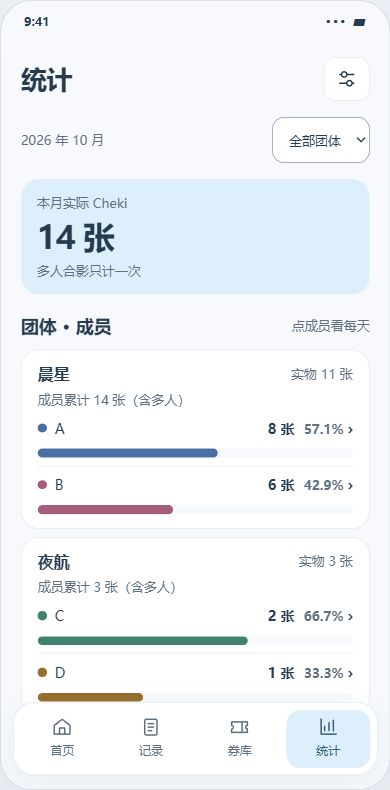
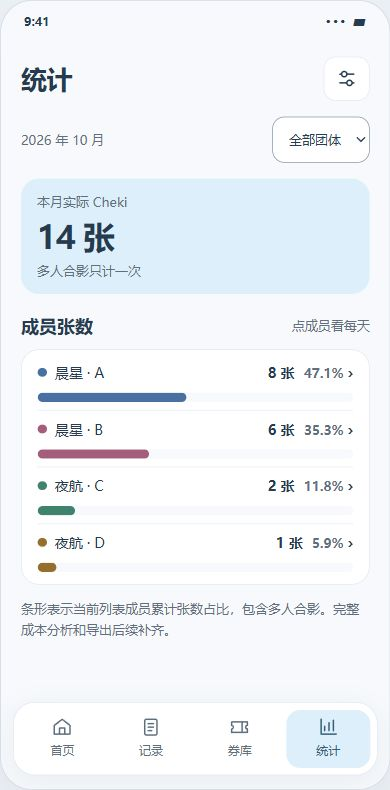
按成员平铺展示统计并以团体前缀标识归属

diff --git a/docs/ui/cheki-ui-prototype.js b/docs/ui/cheki-ui-prototype.js
@@ -28,9 +28,10 @@ function filter(value){recordFilter=value;const matched=monthRecords().filter(r=
 function navigate(name){document.querySelectorAll('.page').forEach(p=>p.hidden=p.id!==name+'-page');document.querySelectorAll('[data-page]').forEach(b=>b.dataset.page===name?b.setAttribute('aria-current','page'):b.removeAttribute('aria-current'));if(name==='stats')renderStats();$('scroller').scrollTop=0}
 function open(title,html){$('dialog-title').textContent=title;$('dialog-body').innerHTML=html;if(!$('dialog').open)$('dialog').showModal();$('dialog-body').scrollTop=0}
 let toastTimer;function toast(message){$('toast').textContent=message;$('toast').hidden=false;clearTimeout(toastTimer);toastTimer=setTimeout(()=>$('toast').hidden=true,3500)}
-function renderGroups(){const selected=$('stats-group').value;const visible=groups.filter(g=>selected==='all'||g.id===selected);const rows=monthRecords().filter(r=>r.members.some(id=>visible.some(g=>g.id===member(id).group)));$('stats-physical').textContent=sum(rows)+' 张';$('stats-groups').innerHTML=visible.map(g=>{let gm=members.filter(m=>m.group===g.id);let groupRows=rows.filter(r=>r.members.some(id=>member(id).group===g.id));let total=gm.reduce((n,m)=>n+sum(memberRecords(m.id)),0);return `<article class="card group-card" data-group-id="${g.id}"><div class="group-heading"><h3>${g.name}</h3><span class="muted">实物 ${sum(groupRows)} 张</span></div><p class="group-caption">成员累计 ${total} 张（含多人）</p>`+gm.map(m=>{let qty=sum(memberRecords(m.id));let percent=total?qty/total*100:0;return `<button class="member-row" data-member="${m.id}" aria-label="查看${g.name}成员${m.name}每日张数"><div class="member-heading"><span><i style="background:${m.color}"></i>${m.name}</span><b>${qty} 张 <small>${total?percent.toFixed(1)+'%':'—'}</small> ›</b></div><div class="track"><div class="fill member-fill" style="background:${m.color};width:${percent}%"></div></div></button>`}).join('')+'</article>'}).join('')}
-function renderStats(){const detail=statsView.member!==null;$('stats-overview').hidden=detail;$('stats-detail').hidden=!detail;if(!detail){renderGroups();return}const m=member(statsView.member);const rows=memberRecords(m.id);if(statsView.date){renderDay(m,rows.filter(r=>r.date===statsView.date));return}const dates=[...new Set(rows.map(r=>r.date))].sort().reverse();let days=dates.map(date=>({date,qty:sum(rows.filter(r=>r.date===date))}));let maximum=Math.max(1,...days.map(d=>d.qty));let offset=(new Date(2026,9,1).getDay()+6)%7;let calendar='<span class="calendar-spacer" aria-hidden="true"></span>'.repeat(offset);for(let day=1;day<=31;day++){let date=month+'-'+String(day).padStart(2,'0');let quantity=sum(rows.filter(r=>r.date===date));calendar+=`<button class="calendar-day ${quantity?'has-record':''}" data-date="${date}" aria-label="10月${day}日，${quantity}张" style="--member-color:${m.color}"><span>${day}</span><b>${quantity?quantity+'张':'·'}</b></button>`}
-$('stats-detail').innerHTML=`<header class="header detail-header"><button class="icon" data-stats-back="groups" aria-label="返回团体成员">‹</button><div><h1>${m.name} 的统计</h1><small>${group(m.group).name} · ${m.name}</small></div><button class="icon" data-action="member-settings" aria-label="成员颜色设置"><svg><use href="#settings"/></svg></button></header><div class="card member-total" style="border-left:4px solid ${m.color}"><small>2026 年 10 月 · ${m.name} 参与的 Cheki</small><strong class="number">${sum(rows)} 张</strong><small>单人 ${sum(rows.filter(r=>r.members.length===1))} · 多人 ${sum(rows.filter(r=>r.members.length>1))}</small></div><div class="section"><h2>每日张数</h2><small>点击日期看记录</small></div><label class="field narrow-date-picker"><span>选择日期查看当天张数</span><input id="member-date-input" type="date" min="2026-10-01" max="2026-10-31" value="2026-10-11"></label><div class="card calendar-card"><div class="calendar weekdays">${['一','二','三','四','五','六','日'].map(x=>'<span>'+x+'</span>').join('')}</div><div class="calendar">${calendar}</div></div><div class="section"><h2>有记录的日期</h2><small>${dates.length} 天</small></div><div class="card day-list">${days.map(d=>`<button class="daily-row" data-date="${d.date}"><div class="member-heading"><span>${d.date.slice(5).replace('-',' / ')}</span><b>${d.qty} 张 ›</b></div><div class="track"><div class="fill daily-fill" style="background:${m.color};width:${d.qty/maximum*100}%"></div></div></button>`).join('')||'<p class="info">本月暂无记录。</p>'}</div><p class="info">多人合影在该成员下每张计一次；空日期可点击查看，未记数量不补造。</p>`}
+function renderMembers(){const selected=$('stats-group').value;const visible=members.filter(m=>selected==='all'||m.group===selected);const rows=monthRecords().filter(r=>r.members.some(id=>visible.some(m=>m.id===id)));const total=visible.reduce((n,m)=>n+sum(memberRecords(m.id)),0);$('stats-physical').textContent=sum(rows)+' 张';$('stats-members').innerHTML='<div class="card member-list">'+visible.map(m=>{let qty=sum(memberRecords(m.id));let percent=total?qty/total*100:0;return `<button class="member-row" data-member="${m.id}" aria-label="查看${group(m.group).name}成员${m.name}每日张数"><div class="member-heading"><span><i style="background:${m.color}"></i><span class="member-name">${group(m.group).name} · ${m.name}</span></span><b>${qty} 张 <small>${total?percent.toFixed(1)+'%':'—'}</small> ›</b></div><div class="track"><div class="fill member-fill" style="background:${m.color};width:${percent}%"></div></div></button>`}).join('')+'</div>';}
+
+function renderStats(){const detail=statsView.member!==null;$('stats-overview').hidden=detail;$('stats-detail').hidden=!detail;if(!detail){renderMembers();return}const m=member(statsView.member);const rows=memberRecords(m.id);if(statsView.date){renderDay(m,rows.filter(r=>r.date===statsView.date));return}const dates=[...new Set(rows.map(r=>r.date))].sort().reverse();let days=dates.map(date=>({date,qty:sum(rows.filter(r=>r.date===date))}));let maximum=Math.max(1,...days.map(d=>d.qty));let offset=(new Date(2026,9,1).getDay()+6)%7;let calendar='<span class="calendar-spacer" aria-hidden="true"></span>'.repeat(offset);for(let day=1;day<=31;day++){let date=month+'-'+String(day).padStart(2,'0');let quantity=sum(rows.filter(r=>r.date===date));calendar+=`<button class="calendar-day ${quantity?'has-record':''}" data-date="${date}" aria-label="10月${day}日，${quantity}张" style="--member-color:${m.color}"><span>${day}</span><b>${quantity?quantity+'张':'·'}</b></button>`}
+$('stats-detail').innerHTML=`<header class="header detail-header"><button class="icon" data-stats-back="list" aria-label="返回成员列表">‹</button><div><h1>${m.name} 的统计</h1><small>${group(m.group).name} · ${m.name}</small></div><button class="icon" data-action="member-settings" aria-label="成员颜色设置"><svg><use href="#settings"/></svg></button></header><div class="card member-total" style="border-left:4px solid ${m.color}"><small>2026 年 10 月 · ${m.name} 参与的 Cheki</small><strong class="number">${sum(rows)} 张</strong><small>单人 ${sum(rows.filter(r=>r.members.length===1))} · 多人 ${sum(rows.filter(r=>r.members.length>1))}</small></div><div class="section"><h2>每日张数</h2><small>点击日期看记录</small></div><label class="field narrow-date-picker"><span>选择日期查看当天张数</span><input id="member-date-input" type="date" min="2026-10-01" max="2026-10-31" value="2026-10-11"></label><div class="card calendar-card"><div class="calendar weekdays">${['一','二','三','四','五','六','日'].map(x=>'<span>'+x+'</span>').join('')}</div><div class="calendar">${calendar}</div></div><div class="section"><h2>有记录的日期</h2><small>${dates.length} 天</small></div><div class="card day-list">${days.map(d=>`<button class="daily-row" data-date="${d.date}"><div class="member-heading"><span>${d.date.slice(5).replace('-',' / ')}</span><b>${d.qty} 张 ›</b></div><div class="track"><div class="fill daily-fill" style="background:${m.color};width:${d.qty/maximum*100}%"></div></div></button>`).join('')||'<p class="info">本月暂无记录。</p>'}</div><p class="info">多人合影在该成员下每张计一次；空日期可点击查看，未记数量不补造。</p>`}
 function renderDay(m,rows){let three=sum(rows.filter(r=>r.size==='三寸')),five=sum(rows.filter(r=>r.size==='五寸'));$('stats-detail').innerHTML=`<header class="header detail-header"><button class="icon" data-stats-back="member" aria-label="返回成员月统计">‹</button><div><h1>${statsView.date.slice(5).replace('-',' 月 ')} 日</h1><small>${group(m.group).name} · ${m.name}</small></div></header><div class="card member-total" style="border-left:4px solid ${m.color}"><small>${m.name} 当天的 Cheki</small><strong class="number" id="day-total">${sum(rows)} 张</strong><small>三寸 ${three} · 五寸 ${five}</small></div><div class="section"><h2>当天记录</h2><small>${rows.length} 笔</small></div><div id="member-day-records">${rows.map(r=>row(r,records.indexOf(r))).join('')||'<div class="card empty-day">当天没有记录，统计为 0 张。</div>'}</div>`}
 function openMemberSettings(){open('成员颜色设置','<p class="info">演示设置 · 修改后，列表标记、成员条形与每日条形立即使用同一颜色。刷新后恢复合成初始值。</p>'+members.map(m=>`<label class="color-setting"><span>${group(m.group).name} · ${m.name}</span><input type="color" data-color-member="${m.id}" value="${m.color}" aria-label="${group(m.group).name}成员${m.name}颜色"></label>`).join(''))}
 function showRecord(index){const r=records[index];let labels=['已完成已领取','已完成待领取','待完成已领取','待完成待领取'];open('记录详情',`<div class="review-row"><span>业务日期</span><span>${r.date}</span></div><div class="review-row"><span>团体 · 成员</span><span>${r.members.map(id=>group(member(id).group).name+' · '+member(id).name).join('<br>')}</span></div><div class="review-row"><span>实物 / 成员累计</span><span>${r.qty} 张 / ${r.qty*r.members.length} 张</span></div><div class="review-row"><span>属性</span><span>${r.size} · 带签</span></div>${labels.map((label,i)=>`<div class="review-row"><span>${label}</span><span>${r.buckets[i]} 张</span></div>`).join('')}<div class="review-row"><span>待处理（去重）</span><b>${pending(r)} 张</b></div><p class="info">未完成与未领取合并为待处理入口，具体状态仍独立。多人共享这张实物的状态。</p><button class="primary" data-management="调整状态" style="width:100%;margin-top:20px">调整状态</button>`)}
@@ -48,9 +49,9 @@ function allocation(){saveFields();let total=draft.limited+draft.long;let valid=
 function next(){saveFields();if(step===0&&(!draft.date||!Number.isInteger(draft.qty)||draft.qty<1||(!draft.a&&!draft.b))){$('wizard-error').className='error';$('wizard-error').textContent='请填写日期、至少一位成员和正整数张数。';return}if(step===3){$('dialog').close();toast('演示完成，未保存数据');return}step++;wizard()}
 function action(name){if(name==='register'){step=0;wizard()}if(name==='manage')open('管理','<div class="management">'+['团体与成员','券种与尺寸','备份与恢复','批量导入导出','设置'].map(x=>`<button data-management="${x}">${x}　›</button>`).join('')+'<p class="info">备份恢复为 MVP 门槛；批量与旧历史迁移计划在 M4。此处均为设计入口。</p></div>');if(name==='buy')open('购券','<p class="info">购券入口提案 · 合成演示</p><label class="field"><span>券种</span><select><option>A 基础券 · 晨星</option><option>通用券 · 晨星</option></select></label><div class="form-row"><label class="field"><span>购入数量</span><input id="buy-qty" type="number" min="1" value="2"></label><label class="field"><span>总金额（元）</span><input id="buy-cost" type="number" min="0" value="60"></label></div><p class="info">正式表单还需业务日期、长期/限时池、截止日与成本核对。</p><button class="secondary" data-action="buy-finish" style="width:100%;margin-top:20px">结束购券演示</button>');if(name==='buy-finish'){$('dialog').close();toast('购券入口演示结束，库存未改变')}if(name==='expiry')open('限时券详情','<div class="card ticket-hero"><h3>晨星 · A 基础券</h3><strong class="number">4 <small>张可用</small></strong><small>10 月 15 日截止 · 临期</small></div><p class="info">合成样例以 10 月 11 日为查看时点。有效限时券优先建议；过期券保留并单列，只有主动手选后才能使用。</p><button class="primary" data-action="register" style="width:100%;margin-top:20px">去记一笔</button>');if(name==='ticket-detail')open('通用券详情','<div class="review-row"><span>长期可用</span><b>2 张</b></div><div class="review-row"><span>过期 · 10/01</span><b>1 张</b></div><div class="management">'+['购入流水','成本来源','交换','赠送','库存调整'].map(x=>`<button data-management="${x}">${x}　›</button>`).join('')+'</div><p class="info">以上为设计入口。交换继承成本，赠送不增加 Cheki。</p>')}
 
-document.addEventListener('click',ev=>{const b=ev.target.closest('button');if(!b)return;if(b.dataset.page)navigate(b.dataset.page);if(b.dataset.go)navigate(b.dataset.go);if(b.dataset.filterGo){navigate('records');filter(b.dataset.filterGo)}if(b.dataset.filter)filter(b.dataset.filter);if(b.dataset.action){if(b.dataset.action==='member-settings')openMemberSettings();else action(b.dataset.action)}if(b.dataset.management){if(b.dataset.management==='团体与成员')openMemberSettings();else toast(b.dataset.management+'：设计入口，尚未实现')}if(b.dataset.record!==undefined)showRecord(Number(b.dataset.record));if(b.dataset.member){statsView={member:b.dataset.member,date:null};renderStats();$('scroller').scrollTop=0}if(b.dataset.date){statsView.date=b.dataset.date;renderStats();$('scroller').scrollTop=0}if(b.dataset.statsBack){if(b.dataset.statsBack==='groups')statsView={member:null,date:null};else statsView.date=null;renderStats();$('scroller').scrollTop=0}});
+document.addEventListener('click',ev=>{const b=ev.target.closest('button');if(!b)return;if(b.dataset.page)navigate(b.dataset.page);if(b.dataset.go)navigate(b.dataset.go);if(b.dataset.filterGo){navigate('records');filter(b.dataset.filterGo)}if(b.dataset.filter)filter(b.dataset.filter);if(b.dataset.action){if(b.dataset.action==='member-settings')openMemberSettings();else action(b.dataset.action)}if(b.dataset.management){if(b.dataset.management==='团体与成员')openMemberSettings();else toast(b.dataset.management+'：设计入口，尚未实现')}if(b.dataset.record!==undefined)showRecord(Number(b.dataset.record));if(b.dataset.member){statsView={member:b.dataset.member,date:null};renderStats();$('scroller').scrollTop=0}if(b.dataset.date){statsView.date=b.dataset.date;renderStats();$('scroller').scrollTop=0}if(b.dataset.statsBack){if(b.dataset.statsBack==='list')statsView={member:null,date:null};else statsView.date=null;renderStats();$('scroller').scrollTop=0}});
 document.addEventListener('input',ev=>{if(ev.target.dataset.colorMember){member(ev.target.dataset.colorMember).color=ev.target.value;renderRecords();renderStats()}});
 document.addEventListener('change',ev=>{if(ev.target.id==='member-date-input'&&/^2026-10-(0[1-9]|[12][0-9]|3[01])$/.test(ev.target.value)){statsView.date=ev.target.value;renderStats();$('scroller').scrollTop=0}});
-$('stats-group').onchange=renderGroups;
+$('stats-group').onchange=renderMembers;
 $('close-dialog').onclick=()=>{$('dialog').close();toast('已退出演示，未保存数据')};
 renderRecords();renderStats();

diff --git a/docs/ui/cheki-ui-prototype.html b/docs/ui/cheki-ui-prototype.html
@@ -11,6 +11,7 @@
 .narrow-date-picker{display:none}@media(max-width:380px){.calendar-card{display:none}.narrow-date-picker{display:block}}
 #stats-overview .header{margin-bottom:16px}#stats-overview .section{margin-top:18px}.stats-total{padding:12px 16px}.stats-total>strong{font-size:32px;line-height:1.2;margin:4px 0}.member-row{padding:8px 0}
 .group-card{padding-top:12px;padding-bottom:6px;margin-bottom:8px}
+.member-list{padding:4px 16px}.member-heading>span{min-width:0}.member-heading i{flex-shrink:0}.member-name{overflow-wrap:anywhere}
 </style>
 </head>
 <body>
@@ -33,7 +34,7 @@
 </section>
 <section class="page" id="records-page" hidden><header class="header"><h1>记录</h1><button class="icon" data-action="register" aria-label="新增记录">＋</button></header><div class="summary"><strong class="number" id="record-physical">14</strong> 张实物 <span>／</span> <span id="record-participation">成员累计 17 张</span></div><div class="chips" id="record-filters"><button data-filter="all" aria-pressed="true">全部</button><button data-filter="pending" aria-pressed="false">待处理</button></div><p class="muted" id="record-count">8 笔记录</p><div id="record-list"></div><p class="info">待处理只计尚未完成或尚未领取的实物，每张计一次；详情保留两种独立状态。</p></section>
 <section class="page" id="tickets-page" hidden><header class="header"><h1>券库</h1><button class="secondary" data-action="buy">＋ 购券</button></header><div class="card ticket-hero"><small>当前可用特典券</small><strong class="number">14 <small>张</small></strong><small>长期 10 · 限时 4 · 过期 1 另列</small></div><div class="section"><h2>晨星</h2><small>2 种券</small></div><article class="card ticket-card"><div class="ticket-top"><div><h3>A 基础券</h3><small>个人券 · A</small></div><strong class="stock number">12</strong></div><div class="pool"><span>长期</span><b>8 张</b></div><div class="pool"><span>限时 · 10/15 截止</span><b>4 张</b></div><button class="warning" data-action="expiry" style="margin-top:12px">! 临期 4 张 · 查看详情</button></article><article class="card ticket-card"><div class="ticket-top"><div><h3>通用券</h3><small>团体券</small></div><strong class="stock number">2</strong></div><div class="pool"><span>长期</span><b>2 张</b></div><p class="expired">过期 1 张 · 10/01 截止 · 保留历史</p><button class="text-link" data-action="ticket-detail">查看流水与操作</button></article></section>
-<section class="page" id="stats-page" hidden><div id="stats-overview"><header class="header"><h1>统计</h1><button class="icon" data-action="manage" aria-label="打开管理"><svg><use href="#settings"/></svg></button></header><div class="stats-controls"><span class="muted">2026 年 10 月</span><label><span class="sr-only">筛选团体</span><select id="stats-group"><option value="all">全部团体</option><option value="morning">晨星</option><option value="night">夜航</option></select></label></div><div class="card stats-total"><small>本月实际 Cheki</small><strong class="number" id="stats-physical">14 张</strong><small>多人合影只计一次</small></div><div class="section"><h2>团体 · 成员</h2><small>点成员看每天</small></div><div id="stats-groups"></div><p class="info">条形表示团内成员累计张数占比，包含多人合影。完整成本分析和导出后续补齐。</p></div><div id="stats-detail" hidden></div></section>
+<section class="page" id="stats-page" hidden><div id="stats-overview"><header class="header"><h1>统计</h1><button class="icon" data-action="manage" aria-label="打开管理"><svg><use href="#settings"/></svg></button></header><div class="stats-controls"><span class="muted">2026 年 10 月</span><label><span class="sr-only">筛选团体</span><select id="stats-group"><option value="all">全部团体</option><option value="morning">晨星</option><option value="night">夜航</option></select></label></div><div class="card stats-total"><small>本月实际 Cheki</small><strong class="number" id="stats-physical">14 张</strong><small>多人合影只计一次</small></div><div class="section"><h2>成员张数</h2><small>点成员看每天</small></div><div id="stats-members"></div><p class="info">条形表示当前列表成员累计张数占比，包含多人合影。完整成本分析和导出后续补齐。</p></div><div id="stats-detail" hidden></div></section>
 </main><nav class="dock" aria-label="主导航"><button data-page="home" aria-current="page"><svg><use href="#home"/></svg>首页</button><button data-page="records"><svg><use href="#records"/></svg>记录</button><button data-page="tickets"><svg><use href="#ticket"/></svg>券库</button><button data-page="stats"><svg><use href="#chart"/></svg>统计</button></nav></div><p class="demo-label">设计提案 · 合成数据 · 未保存到 App</p></div>
 </div>
 <dialog class="modal" id="dialog" aria-labelledby="dialog-title"><header class="modal-head"><h2 id="dialog-title"></h2><button id="close-dialog" aria-label="关闭">×</button></header><div class="modal-body" id="dialog-body"></div></dialog><div class="toast" id="toast" role="status" hidden></div>

diff --git a/docs/UI_DESIGN.md b/docs/UI_DESIGN.md
@@ -6,7 +6,7 @@
 
 ![首页设计预览，合成数据](ui/UI_OVERVIEW.jpg)
 
-[团体成员统计预览](ui/UI_STATISTICS.jpg) · [成员当天记录预览](ui/UI_MEMBER_DAILY.jpg)
+[成员列表统计预览](ui/UI_STATISTICS.jpg) · [成员当天记录预览](ui/UI_MEMBER_DAILY.jpg)
 
 ## 1. 从 SalaryFlow 沿用什么
 
@@ -61,18 +61,18 @@
 | 首页 | 当月实际 Cheki / 当前可用券拼色卡；一个「待处理 Cheki」入口；临期提示；最近记录 | 一个主要按钮「记一笔」；「购券」次级入口；点待处理进入匹配记录 |
 | 记录 | 日期分组，实物量/成员累计张数；团体与成员、尺寸、独立属性；具体完成/领取状态 | 全部/待处理筛选；待处理显示实际尚未结清的数量；点行进入原操作详情与状态调整 |
 | 券库 | 可用/长期/限时数量；券种分组与期限；过期数量单列 | 购券；券详情内交换、赠送、调整及流水，来源与成本进一步展开 |
-| 统计 | 期间、团体选择、去重实际张数；按团体分组的成员列表与成员色条形 | 点成员→月历与逐日张数→点日期查看当天记录；M3 再加入完整分析、成本与导出 |
+| 统计 | 期间、团体选择、去重实际张数；成员平铺列表，每行姓名带团体前缀/标签与成员色条形 | 点成员→月历与逐日张数→点日期查看当天记录；M3 再加入完整分析、成本与导出 |
 | 管理 | 团体/成员、券种/尺寸、备份恢复、设置 | 右上角独立入口；批量导入导出及旧映射按 M4 范围启用 |
 
 顶部统一为页面标题和管理入口，避免英文大标题、欢迎语、装饰头像与无业务意义的插画占据首屏。列表不用照片缩略图，符合只管理数量的范围。
 
-### 统计入口：团体 → 成员 → 日期 → 记录
+### 统计入口：成员列表 → 日期 → 记录
 
-统计首页直接显示团体和其成员，不再提供两套重复的「成员分布」口径切换。团体标题显示该团体命中的去重实物张数；成员行显示该身份参与的张数、团内成员累计占比以及读取设置色的条形。这里的成员张数是“这位成员参与了多少张”，不是人数。
+统计首页以成员为一行，平铺展示「晨星 · A」「晨星 · B」「夜航 · C」「夜航 · D」。团体是姓名前缀或标签，用于标明归属和区分同名身份；不出现团体标题卡片、团体折叠层级或先选团体才能选人的步骤。团体筛选是可选过滤器，默认直接显示所有成员。每行显示该身份参与的张数、累计占比和设置色条形，点该行直接进入此成员的每日统计。
 
-团内比例分母为该团体各成员参与张数之和，例如晨星 A=8、B=6，分别为 8/14 和 6/14；团体实物仍为 11，不能把成员张数相加当作实物。跨团多人可能同时命中多团，全局实物仍按记录去重。原始参与统计及 Person 契约保留，取消的是这个页面重复的切换入口。
+比例分母为当前筛选后列表中各成员参与张数之和：全部成员 A8、B6、C2、D1，分母 17，A 为 8/17；仅筛选晨星时为 14，A 为 8/14。总览实际实物仍为 14（晨星筛选为 11），不能把成员张数相加当作实物。跨团多人命中多个身份，全局实物按记录去重。原始参与统计及 Person 契约保留，取消的是该页面重复口径切换。
 
-点成员进入带团体/成员面包屑的月统计，显示单人/多人数量、可点月历和有记录日期列表。每个自然日标张数，点某日显示当天总数、尺寸拆分与原始记录；无记录日期显示 0 和空状态。返回成员保留所选月份，再返回团体列表保留团体筛选。查询按稳定的团体/成员身份 ID 和业务日期绑定，不按名字合并。
+点成员进入带团体前缀的月统计，显示单人/多人数量、可点月历和有记录日期列表。每个自然日标张数，点某日显示当天总数、尺寸拆分与原始记录；无记录日期显示 0 和空状态。返回成员保留所选月份，再返回成员列表保留可选团体筛选。查询按稳定的团体/成员身份 ID 和业务日期绑定，不按名字合并。
 
 ### 一个待处理入口，两个独立状态
 
@@ -105,7 +105,7 @@
 - 失败在字段附近说明原因并保留输入；页面级失败给重试。加载不先展示 0，未知成本显示「未知」。
 - 待处理和临期卡可进入匹配明细；任务结束显示简短反馈与查看入口。待处理合并不隐去详情中的独立状态。
 - 支持 320–430 宽度；Flutter 文本放大到 200% 时使用自适应换行/滚动，不能靠缩小字体。移动键盘、系统返回、TalkBack 读序和焦点须在 Android 实现后实际验证。
-- 团体实物与成员累计张数分别标注；成员占比固定使用团内成员累计分母。日期下钻、团体筛选和明细保持一致，跨成员/跨团实物不可直接相加。
+- 团体实物与成员累计张数分别标注；成员占比使用当前筛选后列表的成员累计分母。日期下钻、团体筛选和明细保持一致，跨成员/跨团实物不可直接相加。
 
 ## 8. 本轮原型如何检查
 

diff --git a/AGENTS.md b/AGENTS.md
@@ -49,6 +49,6 @@
 - 交付说明实际变化、检查、未验证、迁移、用户可见升级、MasterSheet更新及下一步。
 - README 面向仓库浏览者，说明项目定位、真实阶段、计划范围、文档入口和来源许可；提交前检查正文、链接和 GitHub 实际展示分支。首页不保留模板占位、本机路径/IP、数据库详情或内部回合流水，规划能力明确标为尚未实现。
 - UI 遵循 `docs/UI_DESIGN.md`：SalaryFlow 极简布局、浅蓝浅粉拼色、深色文字；成员自定义色与语义状态独立。页面实施前读规范和原型，布局待用户复核；浏览器原型检查不替代 Flutter/Android 可访问性与业务验收。
-- 统计主入口按团体→成员→每日张数→当天记录；条图/月历标记读取成员身份设置色。待完成/待领取合并为「待处理」入口，按未结清实物并集去重；详情和存储继续保留独立完成/领取状态。
+- 统计主入口为成员平铺列表，姓名带团体前缀或标签，不按团体分组；点成员→每日张数→当天记录；条图/月历标记读取成员身份设置色。待完成/待领取合并为「待处理」入口，按未结清实物并集去重；详情和存储继续保留独立完成/领取状态。
 
 详细指导：`docs/DEVELOPMENT_GUIDE.md`；设备：`docs/MOBILE.md`。
